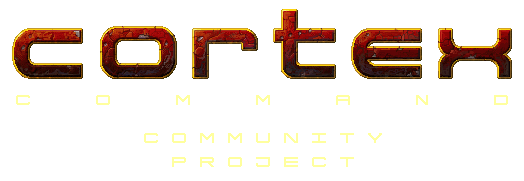
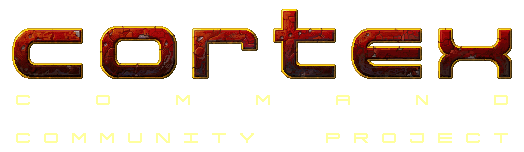
Updated header. Addressed PR feedback.

diff --git a/src/components/Background/Background.js b/src/components/Background/Background.js
@@ -5,75 +5,75 @@ import Planet from './planetoids/Planet';
 import MagicArrow from './MagicArrow/MagicArrow';
 // import Nebula from './Nebula/Nebula';
 
-const titleHeight = 181;  // Pixel height of title image
-const planetHeight = 550; // Pixel size of planet image, 1:1 aspect ratio
-// const moonHeight = 176;   // Pixel size of moon image, 1:1 aspect ratio
+function Background(props) {
+    const titleHeight = props.titleHeight;
+    const planetHeight = 550; // Pixel size of planet image, 1:1 aspect ratio
+    // const moonHeight = 176;   // Pixel size of moon image, 1:1 aspect ratio
 
-const moonParallaxRateX = .2;
-const moonParallaxRateY = .8;
+    const moonParallaxRateX = .2;
+    const moonParallaxRateY = .8;
 
-const calculateExtraPlanetOffset = () => {
-    return Math.min(planetHeight, window.innerHeight) / 4;
-};
+    const calculateExtraPlanetOffset = () => {
+        return (Math.min(planetHeight, window.innerHeight) / 4);
+    };
 
-const calculateFinalOffset = () => {
-    return window.innerHeight - titleHeight / 2 + calculateExtraPlanetOffset()
-};
+    const calculateFinalOffset = () => {
+        return window.innerHeight - (titleHeight / 2) + calculateExtraPlanetOffset()
+    };
 
-const calculateTitleBreakpoints = () => {
-    return [0, window.innerHeight / 2 + calculateExtraPlanetOffset(), calculateFinalOffset()]
-}
-
-const calculatePlanetBreakpoints = () => {
-    return [0, calculateFinalOffset()];
-} 
-
-const calculateInitialTitleOffset = () => {
-    return window.innerHeight / 2;
-};
-
-const calculateInitialPlanetOffset = () => {
-    return window.innerHeight + calculateExtraPlanetOffset();
-};
-
-const calculateInitialMoonOffsetX = () => {
-    return (window.innerWidth + planetHeight) / 2 - planetHeight / 8;
-};
-
-const calculateInitialMoonOffsetY = () => {
-    return window.innerHeight - 1.8 * calculateExtraPlanetOffset();
-};
-
-const calculateTitleY = () => {
-    if (window.pageYOffset < calculateTitleBreakpoints()[1]) {
-        return calculateInitialTitleOffset();
-    } else if (window.pageYOffset >= calculateTitleBreakpoints()[1] && window.pageYOffset < calculateTitleBreakpoints()[2]) {
-        return calculateInitialTitleOffset() + calculateTitleBreakpoints()[1] - window.pageYOffset;
-    } else {
-        return titleHeight / 2;
+    const calculateTitleBreakpoints = () => {
+        return [0, (window.innerHeight / 2) + calculateExtraPlanetOffset(), calculateFinalOffset()]
     }
-};
 
-const calculatePlanetY = () => {
-    if (window.pageYOffset < calculatePlanetBreakpoints()[1]) {
-        return calculateInitialPlanetOffset() - window.pageYOffset;
-    } else {
-        return titleHeight / 2;
+    const calculatePlanetBreakpoints = () => {
+        return [0, calculateFinalOffset()];
     }
-};
 
-const calculateMoonY = () => {
-    const finalOffset = -150;
+    const calculateInitialTitleOffset = () => {
+        return window.innerHeight / 2;
+    };
 
-    let offset = calculateInitialMoonOffsetY() - moonParallaxRateY * window.pageYOffset;
-    return Math.max(offset, finalOffset)
-};
+    const calculateInitialPlanetOffset = () => {
+        return window.innerHeight + calculateExtraPlanetOffset();
+    };
 
-const calculateMoonX = () => {
-    return calculateInitialMoonOffsetX() - moonParallaxRateX * window.pageYOffset;
-};
+    const calculateInitialMoonOffsetX = () => {
+        return ((window.innerWidth + planetHeight) / 2) - (planetHeight / 8);
+    };
 
-function Background() {
+    const calculateInitialMoonOffsetY = () => {
+        return window.innerHeight - 1.8 * calculateExtraPlanetOffset();
+    };
+
+    const calculateTitleY = () => {
+        if (window.pageYOffset < calculateTitleBreakpoints()[1]) {
+            return calculateInitialTitleOffset();
+        } else if (window.pageYOffset >= calculateTitleBreakpoints()[1] && window.pageYOffset < calculateTitleBreakpoints()[2]) {
+            return calculateInitialTitleOffset() + calculateTitleBreakpoints()[1] - window.pageYOffset;
+        } else {
+            return titleHeight / 2;
+        }
+    };
+
+    const calculatePlanetY = () => {
+        if (window.pageYOffset < calculatePlanetBreakpoints()[1]) {
+            return calculateInitialPlanetOffset() - window.pageYOffset;
+        } else {
+            return titleHeight / 2;
+        }
+    };
+
+    const calculateMoonY = () => {
+        const finalOffset = -150;
+
+        let offset = calculateInitialMoonOffsetY() - moonParallaxRateY * window.pageYOffset;
+        return Math.max(offset, finalOffset)
+    };
+
+    const calculateMoonX = () => {
+        return calculateInitialMoonOffsetX() - moonParallaxRateX * window.pageYOffset;
+    };
+
     const setOffset = () => {
         setTitleY(calculateTitleY);
 
@@ -103,7 +103,7 @@ function Background() {
     return (
         <>
             {/* <Nebula/> */}
-            <Title yCenter={titleY} />
+            <Title yCenter={titleY} titleHeight={titleHeight} />
             <Planet yCenter={planetY} planetHeight={planetSize} />
             <Moon yCenter={moonY} xCenter={moonX} />
             <MagicArrow />

diff --git a/src/components/Background/planetoids/Planet.js b/src/components/Background/planetoids/Planet.js
@@ -10,11 +10,11 @@ function Planet(props) {
             height: 'auto',
             width: 'auto',
             maxHeight: props.planetHeight + stationHeight,
-            maxWidth: props.planetHeight + 2 * stationHeight,
+            maxWidth: props.planetHeight + (2 * stationHeight),
             margin: 'auto',
             position: 'sticky',
             top: props.yCenter - (props.planetHeight + stationHeight) / 2,
-            marginTop: - (props.planetHeight + stationHeight) / 2,
+            marginTop: -1 * (props.planetHeight + stationHeight) / 2,
             zIndex: '9',
             marginBottom: '250px',
             textAlign: 'center',
@@ -29,7 +29,7 @@ function Planet(props) {
                 textAlign: 'initial'
             }}>
                 <img src='./station.png' className='station' alt="" style={{
-                    transformOrigin: `0 ${props.planetHeight / 2 + stationHeight}px`,
+                    transformOrigin: `0 ${(props.planetHeight / 2) + stationHeight}px`,
                 }}/>
             </div>
             <img src='./planet.png' alt="" style={{

diff --git a/src/components/PageBody/PageBody.js b/src/components/PageBody/PageBody.js
@@ -3,7 +3,7 @@ import Header from '../Header/Header';
 import Content from '../Content/Content';
 import './PageBody.css';
 
-function PageBody() {
+function PageBody(props) {
     return (
         <>
             <div style={{
@@ -15,7 +15,7 @@ function PageBody() {
                 zIndex: '100',
                 pointerEvents: 'none',
             }}>
-                <div style={{ height: 181 }} />
+                <div style={{ height: props.titleHeight }} />
                 <div style={{
                     position: 'relative',
                     pointerEvents: 'initial',
@@ -31,7 +31,7 @@ function PageBody() {
                         <img src='./banner.png' alt='' style={{
                             width: '100%',
                         }}></img>
-                        <div id="main-content" class="main-content" style={{
+                        <div id="main-content" className="main-content" style={{
                             maxWidth: '800px',
                             backgroundColor: '#242424',
                             padding: '50px',

diff --git a/src/components/Header/Header.css b/src/components/Header/Header.css
@@ -5,11 +5,10 @@
     height: 100%;
     list-style-type: none;
     height: 60px;
-    /* padding: 0 12px; */
 }
 
 .header, .header li {
-    background-image: linear-gradient(#4a1f19, #4a1f19, #4a1f19, #2e0a00, #2e0a00, #2e0a00);
+    background-image: linear-gradient(rgba(74, 31, 25, 1) 25%,rgba(46, 10, 0, 1) 75%);
 }
 
 .header a {
@@ -18,11 +17,17 @@
     display: flex;
     align-items: center;
     justify-content: center;
-    font-size: 14pt;
+    font-size: 10pt;
     color: #f9de8f;
     text-decoration: none;
+    text-transform: uppercase;
 }
 
 .header a:hover {
-    text-decoration: underline;
+    color: white;
+}
+
+.header a:focus {
+    outline: none;
+    background-color: rgba(46, 10, 0, 1);
 }

diff --git a/src/components/Header/Header.js b/src/components/Header/Header.js
@@ -28,7 +28,7 @@ function Header() {
                 <li><a href="https://github.com/cortex-command-community"><span>Downloads</span></a></li>
                 <li><a href="http://wiki.datarealms.com/Cortex_Command"><span>Wiki</span></a></li>
                 <li><a href="https://github.com/cortex-command-community/Cortex-Command-Community-Project-Source/issues"><span>Issues</span></a></li>
-                <li><a href="http://forums.datarealms.com/"><span>Forum</span></a></li>
+                <li><a href="http://forums.datarealms.com/"><span>Fan Forums</span></a></li>
             </ul>
         </div>
     );

diff --git a/src/components/Background/Title/Title.js b/src/components/Background/Title/Title.js
@@ -2,15 +2,11 @@ import React from 'react';
 import './Title.css';
 
 function Title(props) {
-    const halfTitleHeight = 181 / 2;
-
     return (
-        <>
-            <img className="title" src='./title-with-glow.png' alt='Cortex Command' style={{
-                top: props.yCenter - halfTitleHeight,
-                maxHeight: '181px',
-            }} />
-        </>
+        <img className="title" src='./title-with-glow.png' alt='Cortex Command Community Project' style={{
+            top: props.yCenter - (props.titleHeight / 2),
+            maxHeight: props.titleHeight,
+        }} />
     );
 }
 

diff --git a/src/components/App/App.js b/src/components/App/App.js
@@ -3,20 +3,18 @@ import './App.css';
 import Background from '../Background/Background';
 import PageBody from '../PageBody/PageBody';
 
+const titleHeight = 161; // Pixel height of title image
+
 function App() {
   return (
     <>
-      <Background></Background>
+      <Background titleHeight={titleHeight}></Background>
       <section style={{
         height: '100vh',
       }}>
       </section>
-      <section style={{
-        height: '20vh',
-      }}>
-      </section>
       <section>
-        <PageBody/>
+        <PageBody titleHeight={titleHeight}/>
       </section>
     </>
   );

diff --git a/public/index.html b/public/index.html
@@ -10,7 +10,7 @@
       content="Cortex Command Community Project home page"
     />
     <link rel="apple-touch-icon" href="%PUBLIC_URL%/favicon.ico" />
-    <link href="https://fonts.googleapis.com/css2?family=Montserrat:wght@400&display=swap" rel="stylesheet">
+    <link href="https://fonts.googleapis.com/css2?family=Montserrat:wght@600&display=swap" rel="stylesheet">
     <!--
       manifest.json provides metadata used when your web app is installed on a
       user's mobile device or desktop. See https://developers.google.com/web/fundamentals/web-app-manifest/

diff --git a/src/components/App/App.css b/src/components/App/App.css
@@ -6,11 +6,3 @@ p {
   padding: 0;
   margin: 0;
 }
-
-/* body, html {
-  scroll-snap-type: y mandatory
-}
-
-section {
-  scroll-snap-align: start;
-} */
